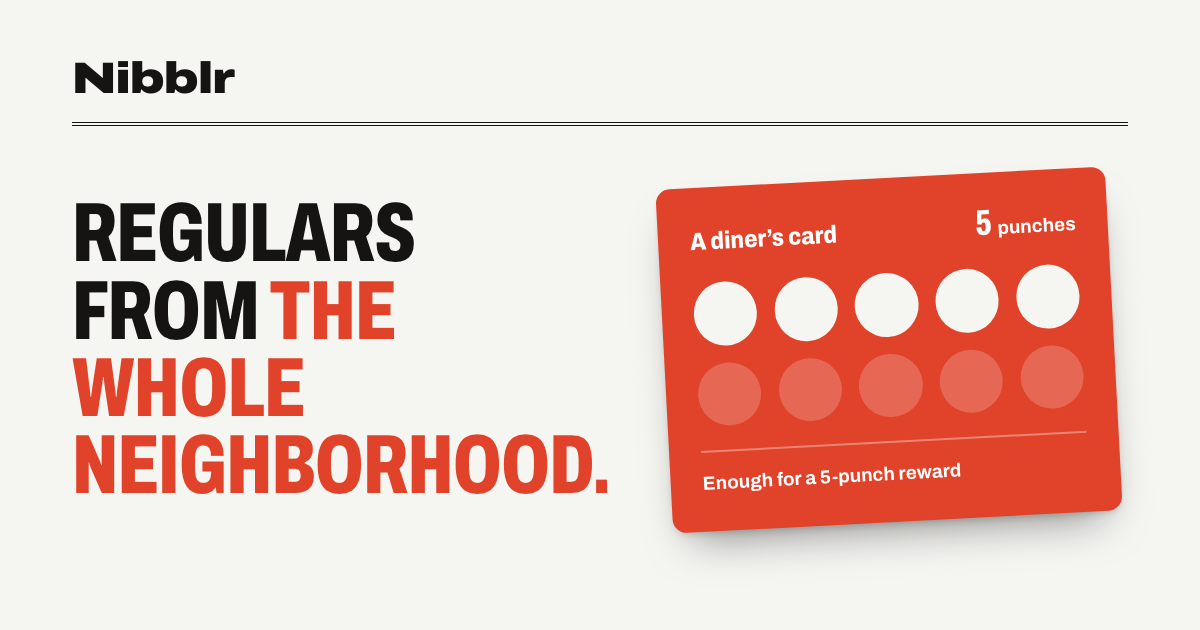
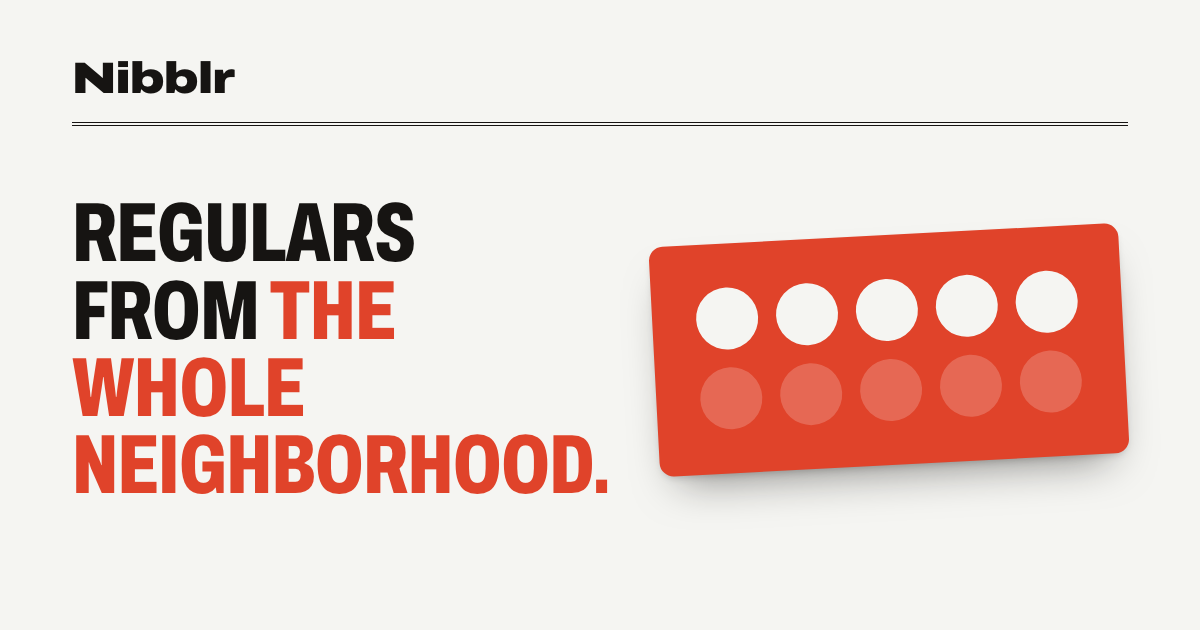
Share images: no small text on the card, so previews stay legible

diff --git a/index.html b/index.html
@@ -10,12 +10,12 @@
     <meta property="og:url" content="https://joinnibblr.com/" />
     <meta property="og:title" content="Nibblr: one punch card for the whole neighborhood" />
     <meta property="og:description" content="Get a punch every visit and spend your punches at any Nibblr spot in the East Village. Join the waitlist." />
-    <meta property="og:image" content="https://joinnibblr.com/share.png?v=3" />
+    <meta property="og:image" content="https://joinnibblr.com/share.png?v=4" />
     <meta property="og:image:width" content="1200" />
     <meta property="og:image:height" content="630" />
-    <meta property="og:image:alt" content="Nibblr: one punch card for the whole neighborhood. A tomato-red punch card with 5 of 10 punches, enough for a 5-punch reward." />
+    <meta property="og:image:alt" content="Nibblr: one punch card for the whole neighborhood. A tomato-red punch card with 5 of 10 punches." />
     <meta name="twitter:card" content="summary_large_image" />
-    <meta name="twitter:image:alt" content="Nibblr: one punch card for the whole neighborhood. A tomato-red punch card with 5 of 10 punches, enough for a 5-punch reward." />
+    <meta name="twitter:image:alt" content="Nibblr: one punch card for the whole neighborhood. A tomato-red punch card with 5 of 10 punches." />
     <meta name="theme-color" content="#f5f5f2" />
     <link rel="preload" href="fonts/archivo-var-latin.woff2" as="font" type="font/woff2" crossorigin />
     <link rel="stylesheet" href="site.css" />

diff --git a/restaurants.html b/restaurants.html
@@ -10,7 +10,7 @@
     <meta property="og:url" content="https://joinnibblr.com/restaurants.html" />
     <meta property="og:title" content="Nibblr for restaurants: a free 12-week pilot" />
     <meta property="og:description" content="One punch card shared by the East Village's independent restaurants. No contract, no payment details, leave anytime." />
-    <meta property="og:image" content="https://joinnibblr.com/share-restaurants.png?v=1" />
+    <meta property="og:image" content="https://joinnibblr.com/share-restaurants.png?v=2" />
     <meta property="og:image:width" content="1200" />
     <meta property="og:image:height" content="630" />
     <meta property="og:image:alt" content="Nibblr for East Village restaurants: regulars from the whole neighborhood. A tomato-red punch card with 5 of 10 punches." />
